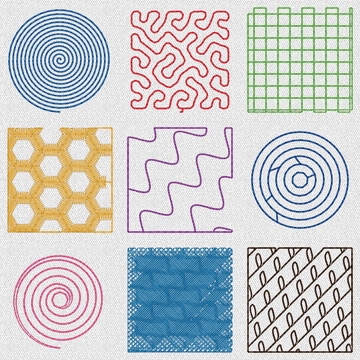
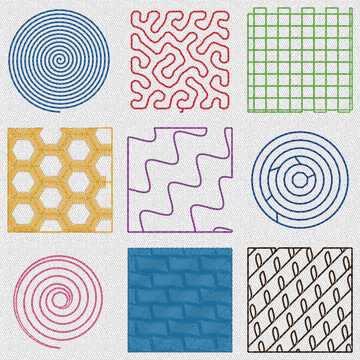
A new programmable fill starts at PE-DESIGN's density 4.5 (#1102)
PE-DESIGN 11.50's Density reset button with Prog. Fill Stitch sets 4.5 lines/mm,
and the programmable-fill-45 capture shows 4.5. A new region and a region
switched to a programmable fill now get 4.5; a density given with the switch
still wins. Every region stores its density, so saved designs keep 2.5.

programmable-fill-45: stored density 4.5, stitches 1636 -> 2664 (PE 2686, within 3 %).
Kit: region-sew-types-1 7216 -> 7520, region-sew-types-2 4749 -> 5382.

Closes #1102

Changed region(s): [[0.3361, 0.6722, 0.6722, 0.9778]]

diff --git a/crates/openstitch-engine/tests/stitch_types.rs b/crates/openstitch-engine/tests/stitch_types.rs
@@ -2632,6 +2632,51 @@ fn a_plain_net_runs_through_its_reference_point() {
     );
 }
 
+/// #1102: a new programmable fill, and a fill switched to one, start at PE-DESIGN 11.50's
+/// density 4.5 lines/mm (the Density field's reset button with Prog. Fill Stitch); a density
+/// given with the switch still wins.
+#[test]
+fn a_programmable_fill_starts_at_density_four_and_a_half() {
+    let mut s = Session::new(std::env::temp_dir());
+    for x in [10, 60, 110] {
+        run(
+            &mut s,
+            "shape.rectangle",
+            json!({"x": x, "y": 10, "width": 40, "height": 40, "outline": "Black"}),
+        );
+    }
+    run(
+        &mut s,
+        "object.setRegion",
+        json!({"id": 1, "type": "programmableFill"}),
+    );
+    run(
+        &mut s,
+        "object.setRegion",
+        json!({"id": 2, "type": "fill", "density": 3.0}),
+    );
+    run(
+        &mut s,
+        "object.setRegion",
+        json!({"id": 2, "type": "programmableFill"}),
+    );
+    run(
+        &mut s,
+        "object.setRegion",
+        json!({"id": 3, "type": "programmableFill", "density": 2.5}),
+    );
+    let density = |id: u64| {
+        let o = s
+            .design()
+            .objects
+            .iter()
+            .find(|o| o.id == id)
+            .expect("object");
+        o.region.as_ref().expect("region").density
+    };
+    assert_eq!([density(1), density(2), density(3)], [4.5, 4.5, 2.5]);
+}
+
 /// #1117: a plain net set by `object.setRegion` with no `spacing` sews its lines 3.0 mm apart,
 /// PE-DESIGN 11.50's default (#1110), both ways, measured in the compiled stitches.
 #[test]

diff --git a/crates/openstitch-design/src/model.rs b/crates/openstitch-design/src/model.rs
@@ -2222,10 +2222,10 @@ impl RegionSewing {
             thread,
             angle: Self::default_angle(kind),
             // PE-DESIGN 11.50 Sewing Attributes (reference files, fill-analysis): fill and satin
-            // 4.5 lines/mm with under sewing on.
+            // 4.5 lines/mm with under sewing on; a programmable fill 4.5 too (the Density field's
+            // reset button with Prog. Fill Stitch, and the programmable-fill-45 capture, #1102).
             density: match kind {
-                RegionType::Fill | RegionType::Satin => 4.5,
-                RegionType::ProgrammableFill => 2.5,
+                RegionType::Fill | RegionType::Satin | RegionType::ProgrammableFill => 4.5,
                 RegionType::Piping => 1.0,
                 // PE-DESIGN 11.50's Concentric Circle, Spiral and Radial Stitch: 2.0 lines/mm
                 // (Radial confirmed with the field's reset button, round 15, #1050).

diff --git a/docs/releases/v0.1.0-alpha.15.md b/docs/releases/v0.1.0-alpha.15.md
@@ -205,5 +205,19 @@ These defaults changed. Each item says how to get the old behaviour back where t
   - **What a sewer notices:** a fill's needle count goes up by a few. The under sewing lies under
     the top fill and looks the same.
   - **Not affected:** the top fill, and fills without under sewing.
+- **A new programmable fill starts at density 4.5 (#1102):**
+  - **What changed:**
+    - A new Prog. Fill Stitch region now gets 4.5 lines/mm, PE-DESIGN 11.50's default (its
+      Density field's reset button), not 2.5.
+    - This holds for a new region and for a region switched to a programmable fill. A density
+      given with the switch still wins.
+    - The 45° capture's square sews 2,664 stitches, against PE-DESIGN's 2,686 (1,636 before).
+  - **In the kit:**
+    - `fills/region-sew-types-1.pes`: 7,216 → 7,520 stitches.
+    - `fills/region-sew-types-2.pes`: 4,749 → 5,382 stitches.
+    - No trim was added or removed, and sew_check is ok on both.
+  - **Not affected:** designs saved before this version. Every region stores its density, so a
+    programmable fill saved at 2.5 keeps 2.5.
+  - **Old behaviour:** set Density to 2.5 (`object.setRegion`'s `density` likewise).
 
 <!-- TODO(release gate): the other Changed output entries of this alpha. -->

diff --git a/examples/sew/README.md b/examples/sew/README.md
@@ -345,7 +345,7 @@ Every region sew type and the fill, satin and underlay options.
 
 #### Region sew types (1 of 2)
 
-[`fills/region-sew-types-1.pes`](fills/region-sew-types-1.pes) · 100 × 100 mm hoop · 86 × 86 mm · 7,216 stitches · 11 trims · about 9.6 min
+[`fills/region-sew-types-1.pes`](fills/region-sew-types-1.pes) · 100 × 100 mm hoop · 86 × 86 mm · 7,520 stitches · 11 trims · about 10 min
 
 Nine region sew types, left to right, top to bottom: fill, satin, programmable fill (diamonds), motif fill (heart), piping, cross stitch, concentric circle, radial, spiral.
 
@@ -355,7 +355,7 @@ Threads, in sewing order: 405 Blue, 800 Red, 509 Leaf Green, 208 Orange, 620 Mag
 
 #### Region sew types (2 of 2)
 
-[`fills/region-sew-types-2.pes`](fills/region-sew-types-2.pes) · 100 × 100 mm hoop · 86 × 86 mm · 4,749 stitches · 9 trims · about 6.4 min
+[`fills/region-sew-types-2.pes`](fills/region-sew-types-2.pes) · 100 × 100 mm hoop · 86 × 86 mm · 5,382 stitches · 9 trims · about 7.2 min
 
 Flexible spiral, stippling, net fill (square), zigzag net fill (honeycomb), decorative fill (waves), contour fill as rings and as a double spiral (beyond PE-DESIGN), programmable fill (bricks) with base sewing, motif fill (leaf).
 

diff --git a/docs/COMPATIBILITY_AUDIT.md b/docs/COMPATIBILITY_AUDIT.md
@@ -4203,7 +4203,8 @@ too; the rows there are sewn since #927 (below). Motif fill keeps the chord warp
 `programmable_fill_along_a_curve_keeps_to_the_curves_offsets`.
 
 Re-measured 2026-11-12 with the U-shaped (C) curve of #927 added. All three rows come from one
-script, through `stitchtool exec` with programmable fill's defaults (2.5 rows/mm), with #927's
+script, through `stitchtool exec` with programmable fill's defaults then (2.5 rows/mm; 4.5 since
+#1102, PE-DESIGN's own), with #927's
 and #947's row fixes in. The figures differ a little from the table above, which was measured
 another way:
 - coverage here counts cells 1 mm in from the square's edges;
